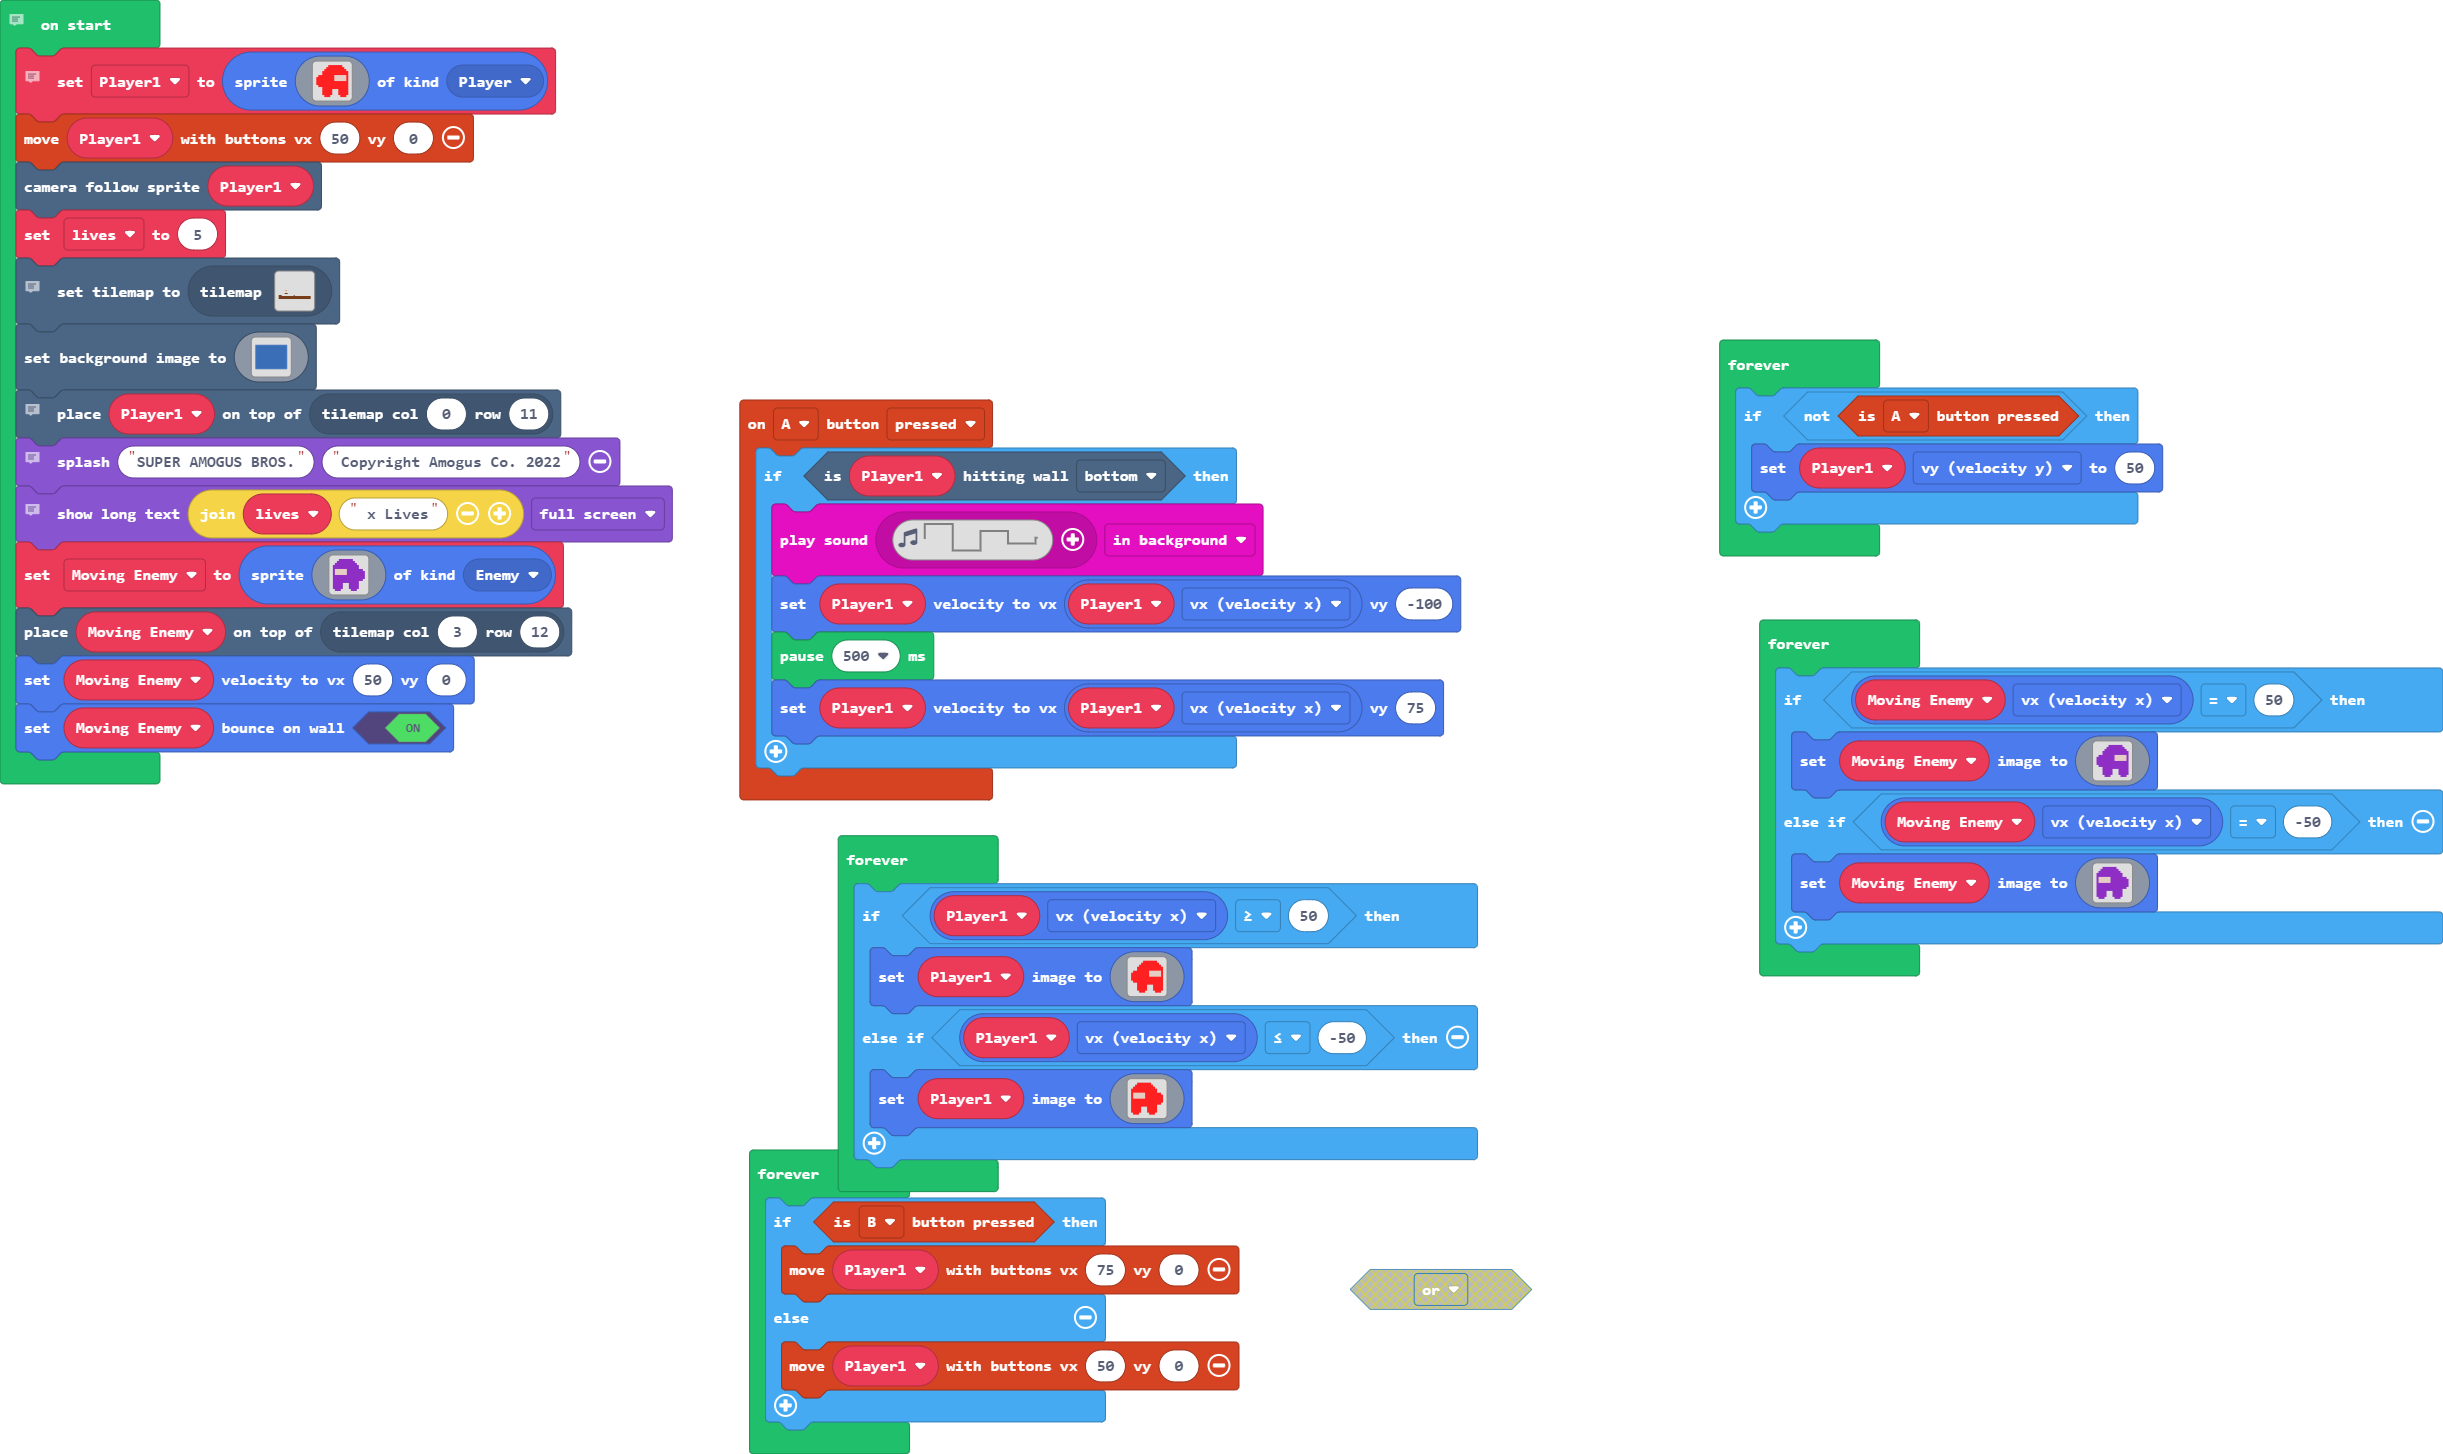
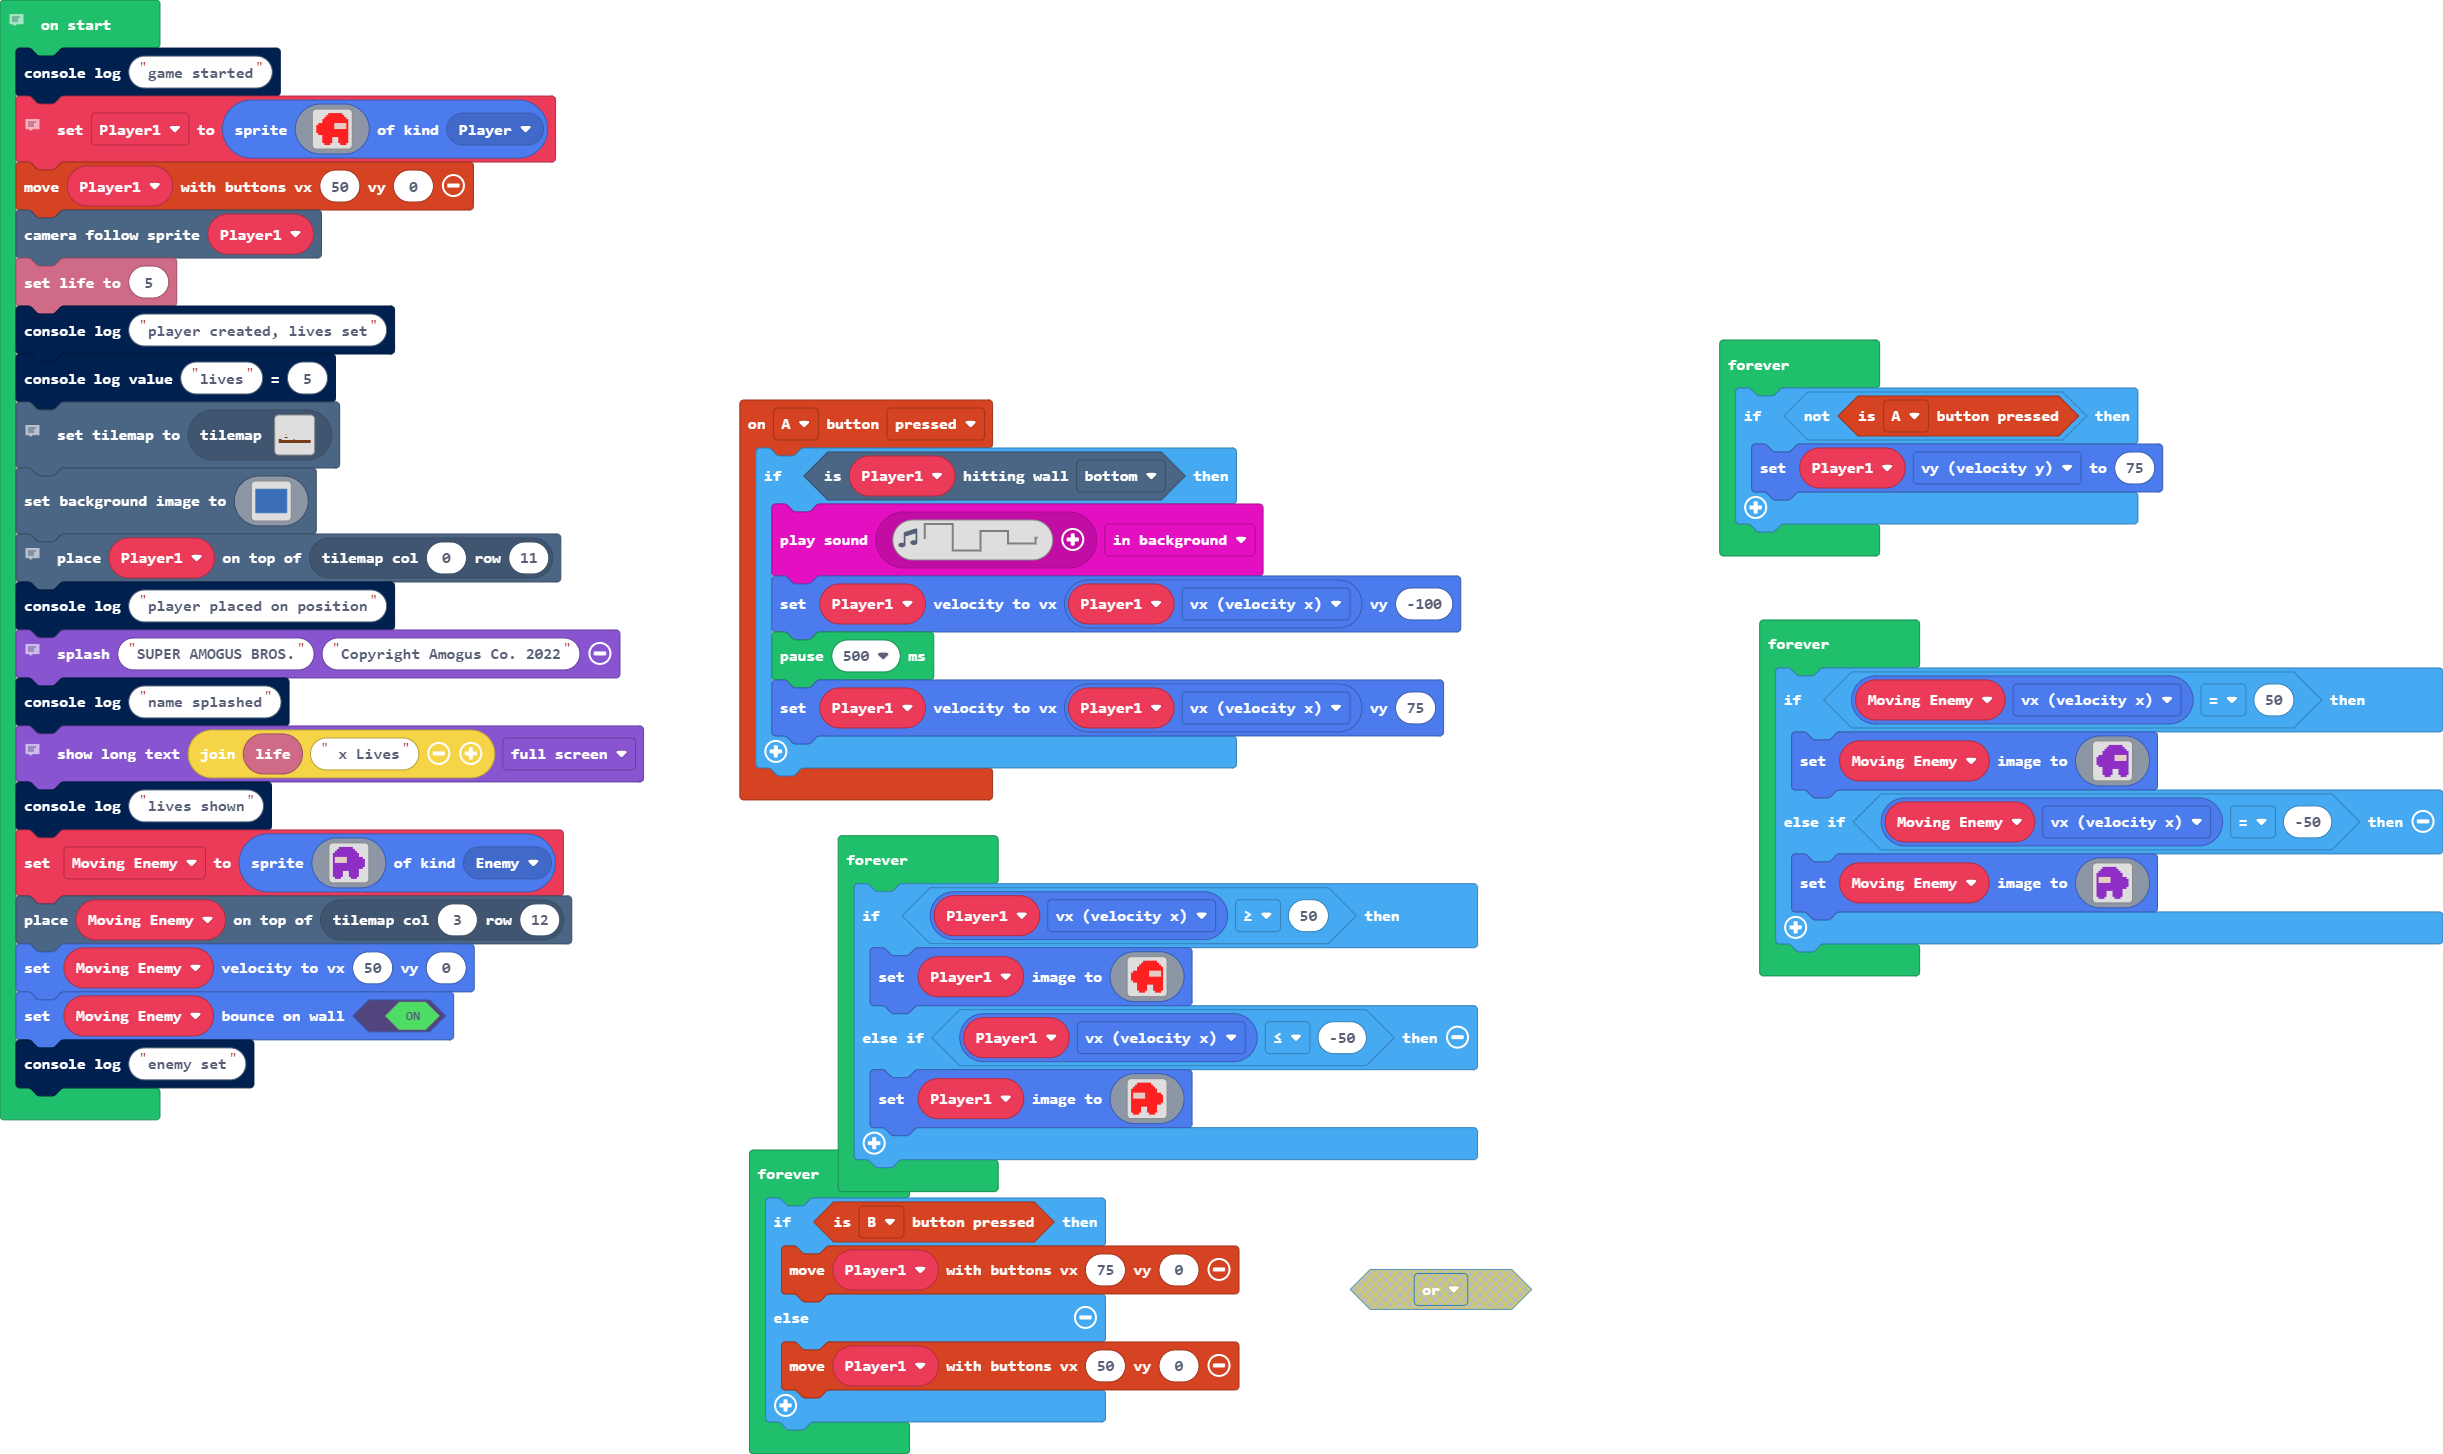
Update main.blocks, main.ts, tilemap.g.jres, tilemap.g.ts

Changed region(s): [[0.0, 0.0309, 0.28, 0.7737]]

diff --git a/main.ts b/main.ts
@@ -8,28 +8,35 @@ controller.A.onEvent(ControllerButtonEvent.Pressed, function () {
 })
 // This sets up the game and stuff
 let Player1: Sprite = null
+console.log("game started")
 // This creates the player sprite and makes it move and makes the camera follow it
 Player1 = sprites.create(assets.image`Player1Right`, SpriteKind.Player)
 controller.moveSprite(Player1, 50, 0)
 scene.cameraFollowSprite(Player1)
-let lives = 5
+info.setLife(5)
+console.log("player created, lives set")
+console.logValue("lives", 5)
 // This sets the level1 and also sets up the sky
 tiles.setCurrentTilemap(tilemap`level1`)
 scene.setBackgroundImage(assets.image`Sky`)
 // This places the player at the start of the level
 tiles.placeOnTile(Player1, tiles.getTileLocation(0, 11))
+console.log("player placed on position")
 // This shows the name of the game and copyright and stuff
 // 
 game.splash("SUPER AMOGUS BROS.", "Copyright Amogus Co. 2022")
+console.log("name splashed")
 // This shows the lives
-game.showLongText("" + lives + " x Lives", DialogLayout.Full)
+game.showLongText("" + info.life() + " x Lives", DialogLayout.Full)
+console.log("lives shown")
 let Moving_Enemy = sprites.create(assets.image`enemy1left`, SpriteKind.Enemy)
 tiles.placeOnTile(Moving_Enemy, tiles.getTileLocation(3, 12))
 Moving_Enemy.setVelocity(50, 0)
 Moving_Enemy.setBounceOnWall(true)
+console.log("enemy set")
 forever(function () {
     if (!(controller.A.isPressed())) {
-        Player1.vy = 50
+        Player1.vy = 75
     }
 })
 forever(function () {

diff --git a/tilemap.g.ts b/tilemap.g.ts
@@ -49,6 +49,25 @@ namespace myTiles {
 22222222222222222222222222222222
 22222222222222222222222222222222
 `, [myTiles.transparency16,myTiles.tile1,myTiles.tile2], TileScale.Sixteen);
+            case "level3":
+            case "level3":return tiles.createTilemap(hex`1000100000000000000000000000000000000000000000000000000000000000000000000000000000000000000000000000000000000000000000000000000000000000000000000000000000000000000000000000000000000000000000000000000000000000000000000000000000000000000000000000000000000000000000000000000000000000000000000000000000000000000000000000000000000000000000000000000000000000000000000000000000000000000000000000000000000000000000000000000000000000000000000000000000000000000000000000000000000000000000000000000000000000000000000000000000000000`, img`
+. . . . . . . . . . . . . . . . 
+. . . . . . . . . . . . . . . . 
+. . . . . . . . . . . . . . . . 
+. . . . . . . . . . . . . . . . 
+. . . . . . . . . . . . . . . . 
+. . . . . . . . . . . . . . . . 
+. . . . . . . . . . . . . . . . 
+. . . . . . . . . . . . . . . . 
+. . . . . . . . . . . . . . . . 
+. . . . . . . . . . . . . . . . 
+. . . . . . . . . . . . . . . . 
+. . . . . . . . . . . . . . . . 
+. . . . . . . . . . . . . . . . 
+. . . . . . . . . . . . . . . . 
+. . . . . . . . . . . . . . . . 
+. . . . . . . . . . . . . . . . 
+`, [myTiles.transparency16], TileScale.Sixteen);
         }
         return null;
     })
